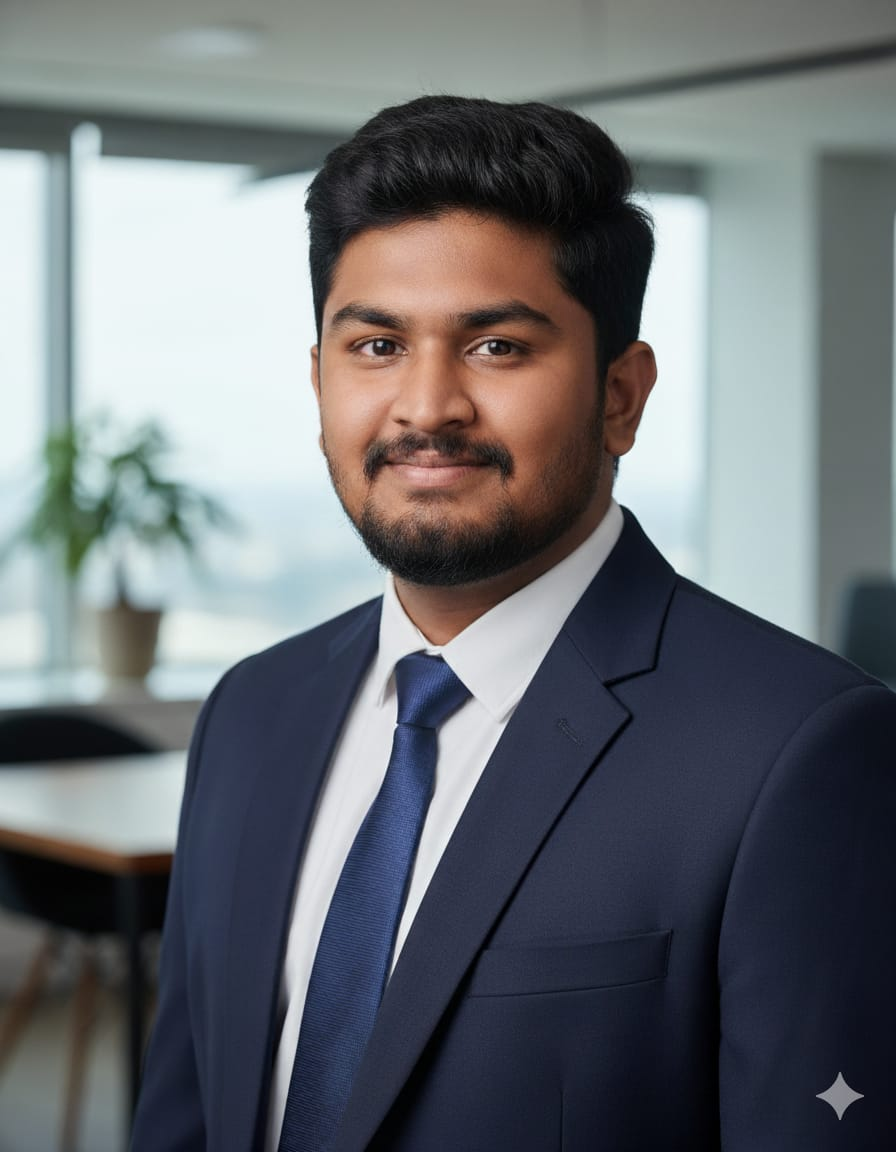
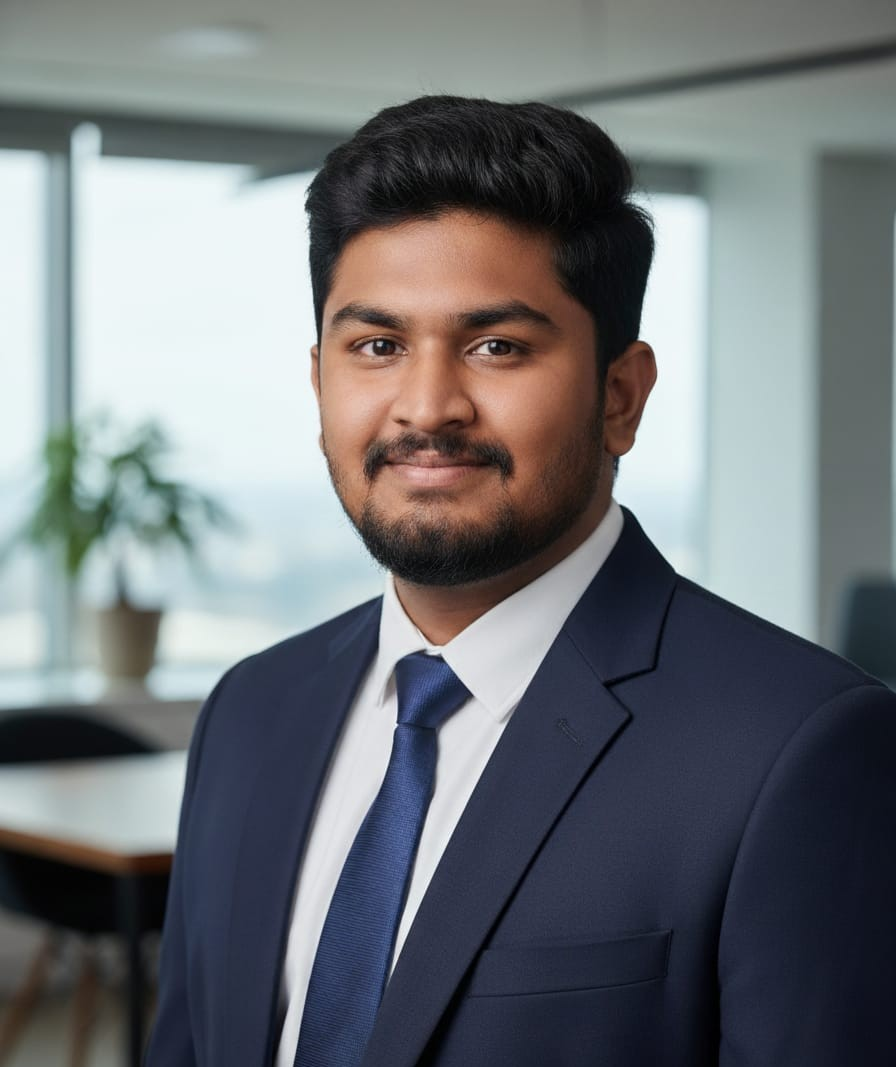
Update with cropped profile image and improve image fitting with CSS styling

diff --git a/docs/static/css/style.css b/docs/static/css/style.css
@@ -96,6 +96,14 @@ img {
     height: auto;
 }
 
+#profile-image {
+    width: 100%;
+    height: 400px;
+    object-fit: cover;
+    object-position: center;
+    border-radius: var(--radius-xl);
+}
+
 /* Typography */
 h1, h2, h3, h4, h5, h6 {
     font-family: var(--font-secondary);

diff --git a/static/css/style.css b/static/css/style.css
@@ -96,6 +96,14 @@ img {
     height: auto;
 }
 
+#profile-image {
+    width: 100%;
+    height: 400px;
+    object-fit: cover;
+    object-position: center;
+    border-radius: var(--radius-xl);
+}
+
 /* Typography */
 h1, h2, h3, h4, h5, h6 {
     font-family: var(--font-secondary);
